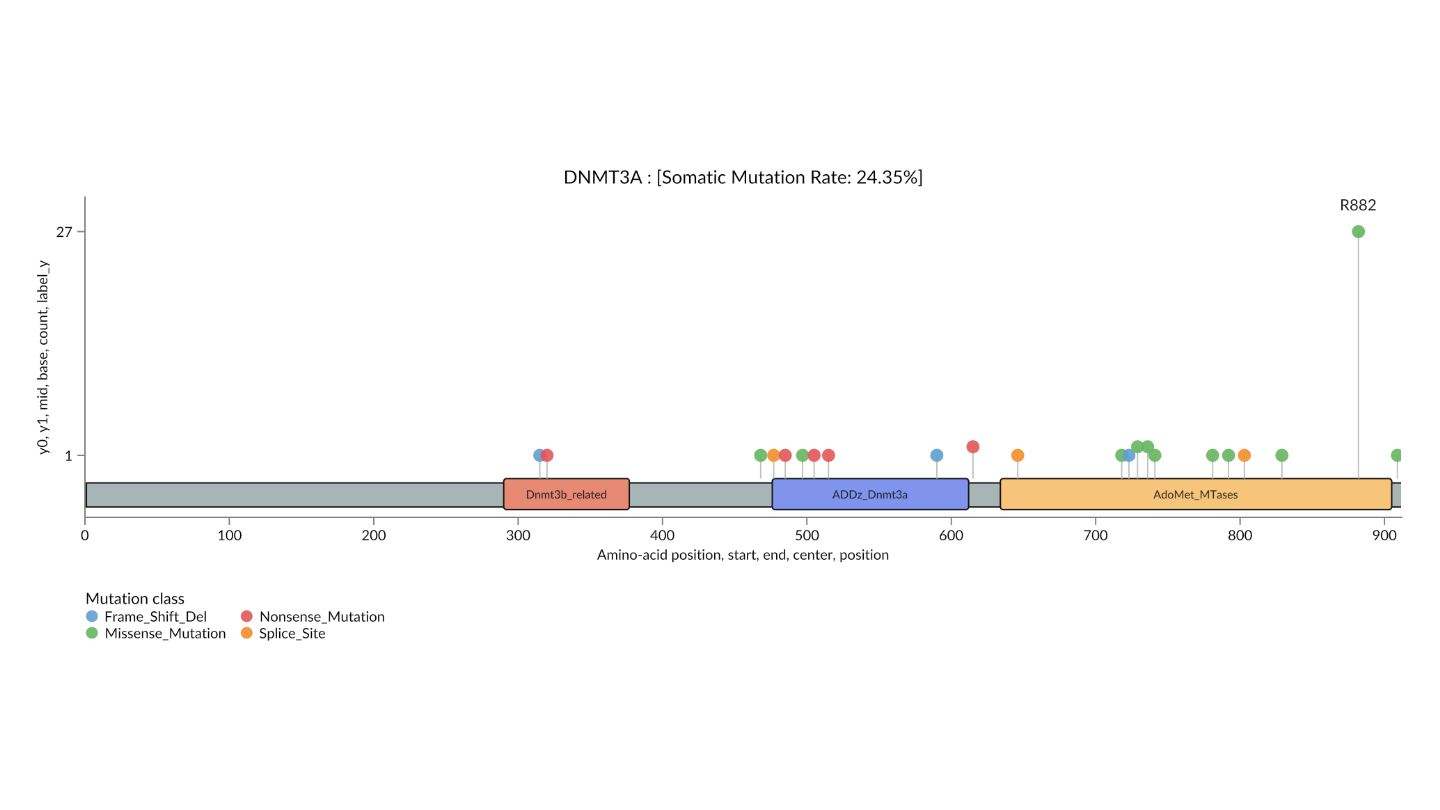
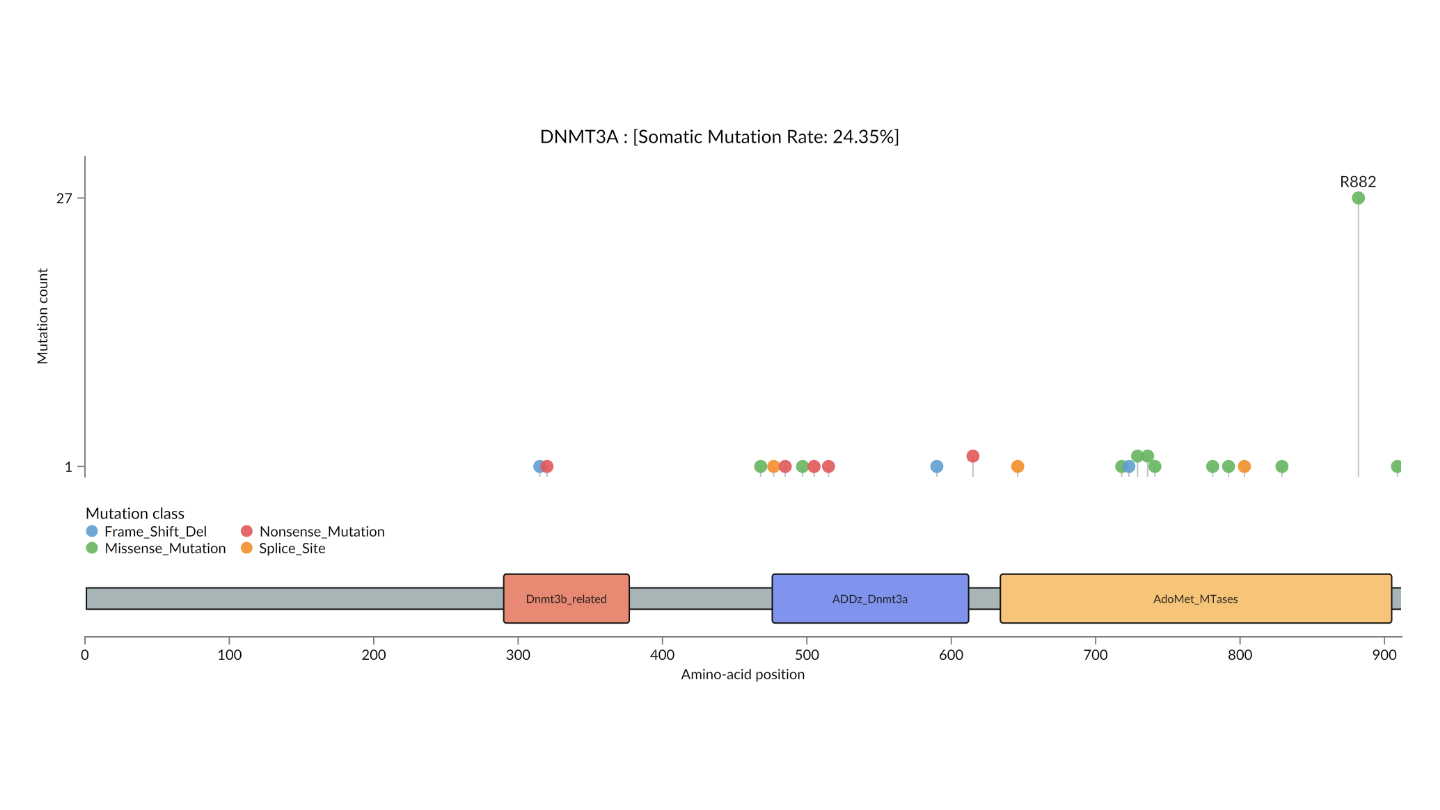
refactor(gallery): simplify DNMT3A needle plot

diff --git a/docs/examples/needle_plot.py b/docs/examples/needle_plot.py
@@ -1,15 +1,14 @@
 """Lollipop plot.
 
-Mutation counts aggregated by amino-acid position and drawn above a protein
-domain map. Color encodes the dominant mutation class at each site, making
-hotspots easy to spot.
+Mutation counts aggregated by amino-acid position are aligned above a protein
+domain track. Color encodes the dominant mutation class at each site.
 """
 
 from __future__ import annotations
 
 import genome_spy as gs
 from genome_spy.datasets._mutation import dnmt3a_lollipop_data
-from genome_spy.schema import Legend, Scale
+from genome_spy.schema import Axis, Legend, Scale
 
 META = {
     "category": "Mutation position plots",
@@ -24,133 +23,121 @@ CLASS_ORDER = [
     "Missense_Mutation",
     "Splice_Site",
 ]
-
 CLASS_COLORS = (
     Scale().domain(CLASS_ORDER).range(["#5f9ed1", "#e15759", "#66b55f", "#f28e2b"])
 )
-
-
-data = dnmt3a_lollipop_data()
-features = data["features"].copy()
-domains = data["domains"].copy()
-backbone = data["backbone"].copy()
-
-domains["y0"] = -5.3
-domains["y1"] = -1.7
-domains["mid"] = (domains["y0"] + domains["y1"]) / 2
-domains["center"] = (domains["start"] + domains["end"]) / 2
-backbone["y0"] = -5.0
-backbone["y1"] = -2.2
-backbone["mid"] = (backbone["y0"] + backbone["y1"]) / 2
-features["base"] = float(domains["y1"].iloc[0])
-features["label_y"] = features["count"] + 1.2
-features["label_text"] = features["position"].map(
-    lambda pos: f"R{pos}" if pos == 882 else ""
-)
-protein_length = data["protein_length"]
-max_count = int(features["count"].max())
-x_domain = [0, protein_length]
-y_domain = [-6.2, max_count + 4]
-
-mutation_legend = (
-    Legend()
-    .title("Mutation class")
-    .orient("bottom")
-    .direction("horizontal")
-    .columns(2)
-    .symbolSize(72)
+DOMAIN_COLORS = (
+    Scale()
+    .domain(["Dnmt3b_related", "ADDz_Dnmt3a", "AdoMet_MTases"])
+    .range(["#e78973", "#8094ee", "#f7c57a"])
 )
 
-# --- Visualization -------------------------------------------------------------
 
-# The protein backbone and annotated domains form the baseline geometry for the
-# lollipop marks.
-backbone_band = (
-    gs.Chart(backbone)
-    .mark_rect(color="#a8b5b6", stroke="#111111", strokeWidth=1)
-    .encode(
-        x=gs.X("start:Q")
-        .scale(domain=x_domain, zoom=True)
-        .title("Amino-acid position"),
-        x2=gs.X2("end"),
-        y=gs.Y("y0:Q")
-        .scale(reverse=False, domain=y_domain)
-        .axis(values=[1, max_count], grid=False)
-        .title(None),
-        y2=gs.Y2("y1"),
+def build_chart() -> gs.Chart:
+    """Build the DNMT3A mutation and protein-domain visualization."""
+    data = dnmt3a_lollipop_data()
+    features = data["features"]
+    domains = data["domains"]
+    max_count = int(features["count"].max())
+    x_domain = [0, data["protein_length"]]
+
+    mutation_legend = (
+        Legend()
+        .title("Mutation class")
+        .orient("bottom")
+        .direction("horizontal")
+        .columns(2)
+        .symbolSize(72)
     )
-)
 
-domain_layers = []
-for domain in domains.to_dict(orient="records"):
-    domain_layers.append(
-        gs.Chart([domain])
+    # Stems and heads inherit one prepared mutation table. Their y encodings
+    # differ, while the parent owns their common amino-acid position encoding.
+    stems = (
+        gs.Chart()
+        .mark_rule(color="#c0c0c0", size=1)
+        .encode(
+            y=gs.Y(gs.datum(0), type="quantitative")
+            .scale(reverse=False, domain=[0, max_count + 4])
+            .axis(title="Mutation count", values=[1, max_count], grid=False),
+            y2=gs.Y2("count"),
+        )
+    )
+    heads = (
+        gs.Chart()
+        .mark_point(size=88, filled=True, opacity=0.9)
+        .encode(
+            y=gs.Y("count:Q").scale(reverse=False, domain=[0, max_count + 4]),
+            color=gs.Color("class:N").scale(CLASS_COLORS).legend(mutation_legend),
+        )
+    )
+    # The canonical R882 hotspot is labeled without adding a display-only
+    # column to the prepared mutation table.
+    hotspot_label = (
+        gs.Chart()
+        .transform_filter(gs.datum.is_hotspot)
+        .mark_text(text="R882", dy=-12, size=11, color="#111111")
+        .encode(y=gs.Y("count:Q").scale(reverse=False, domain=[0, max_count + 4]))
+    )
+    mutation_track = (
+        gs.layer(stems, heads, hotspot_label)
+        .properties(data=features, height=230)
+        .encode(x=gs.X("position:Q"))
+    )
+
+    # Fixed mark-space y coordinates give the protein its own compact track;
+    # no artificial negative count values are needed.
+    backbone = (
+        gs.Chart(data["backbone"])
+        .mark_rect(y=0.36, y2=0.64, color="#a8b5b6", stroke="#111111", strokeWidth=1)
+        .encode(x=gs.X("start:Q"), x2=gs.X2("end"))
+    )
+    domain_blocks = (
+        gs.Chart(domains)
         .mark_rect(
-            color=domain["color"], cornerRadius=2, stroke="#111111", strokeWidth=1
+            y=0.18,
+            y2=0.82,
+            cornerRadius=2,
+            stroke="#111111",
+            strokeWidth=1,
         )
         .encode(
-            x=gs.X("start:Q").scale(domain=x_domain, zoom=True),
+            x=gs.X("start:Q"),
             x2=gs.X2("end"),
-            y=gs.Y("y0:Q").scale(reverse=False, domain=y_domain),
-            y2=gs.Y2("y1"),
+            color=gs.Color("name:N").scale(DOMAIN_COLORS).legend(None),
         )
     )
-
-domain_blocks = domain_layers[0]
-for layer in domain_layers[1:]:
-    domain_blocks = domain_blocks + layer
-
-domain_labels = (
-    gs.Chart(domains)
-    .mark_text(size=8, color="#111111")
-    .encode(
-        x=gs.X("center:Q").scale(domain=x_domain, zoom=True),
-        y=gs.Y("mid:Q").scale(reverse=False, domain=y_domain),
-        text=gs.Text("name:N"),
+    # GenomeSpy derives label centers while rendering, keeping presentation
+    # geometry in the declarative dataflow instead of pandas code.
+    domain_labels = (
+        gs.Chart(domains)
+        .transform_formula(expr=(gs.datum.start + gs.datum.end) / 2, as_="center")
+        .mark_text(y=0.5, size=8, color="#111111")
+        .encode(x=gs.X("center:Q"), text=gs.Text("name:N"))
     )
-)
-
-# Stems carry counts from the protein backbone to each hotspot; points encode
-# the dominant mutation class at that amino-acid position.
-stems = (
-    gs.Chart(features)
-    .mark_rule(color="#c0c0c0", size=1)
-    .encode(
-        x=gs.X("position:Q").scale(domain=x_domain, zoom=True),
-        y=gs.Y("base:Q").scale(reverse=False, domain=y_domain),
-        y2=gs.Y2("count"),
+    protein_track = gs.layer(backbone, domain_blocks, domain_labels).properties(
+        height=55
     )
-)
 
-heads = (
-    gs.Chart(features)
-    .mark_point(size=88, filled=True, opacity=0.9)
-    .encode(
-        x=gs.X("position:Q").scale(domain=x_domain, zoom=True),
-        y=gs.Y("count:Q").scale(reverse=False, domain=y_domain),
-        color=gs.Color("class:N").scale(CLASS_COLORS).legend(mutation_legend),
+    # The parent scale aligns true protein coordinates across both tracks.
+    return (
+        (mutation_track & protein_track)
+        .properties(
+            title=(
+                f"{data['gene']} : "
+                f"[Somatic Mutation Rate: {data['mutation_rate']:.2f}%]"
+            ),
+            description=(
+                "A DNMT3A lollipop plot derived from the maftools TCGA LAML "
+                "example, with per-position mutation counts, protein domains, "
+                "and the labeled R882 hotspot."
+            ),
+            scales=gs.scales(x=gs.Scale(domain=x_domain, zoom=True)),
+            axes=gs.axes(x=Axis(title="Amino-acid position")),
+            spacing=4,
+        )
+        .resolve_scale(x="shared", y="independent")
+        .resolve_axis(x="shared", y="independent")
     )
-)
 
-# The canonical R882 hotspot gets an explicit text label, echoing maftools.
-hotspot_labels = (
-    gs.Chart(features[features["is_hotspot"]].copy())
-    .mark_text(dy=-12, size=11, color="#111111")
-    .encode(
-        x=gs.X("position:Q").scale(domain=x_domain, zoom=True),
-        y=gs.Y("label_y:Q").scale(reverse=False, domain=y_domain),
-        text=gs.Text("label_text:N"),
-    )
-)
 
-# Compose the protein model and mutation marks into a single lollipop view.
-chart = (
-    backbone_band + domain_blocks + domain_labels + stems + heads + hotspot_labels
-).properties(
-    title=(f"{data['gene']} : [Somatic Mutation Rate: {data['mutation_rate']:.2f}%]"),
-    description=(
-        "A DNMT3A lollipop plot derived from the maftools TCGA LAML example, "
-        "with per-position mutation counts, protein domains, and the labeled "
-        "R882 hotspot."
-    ),
-)
+chart = build_chart()

diff --git a/tests/test_docs_gallery.py b/tests/test_docs_gallery.py
@@ -85,6 +85,28 @@ def test_pik3ca_lollipop_uses_reactive_collision_displacement() -> None:
     assert mutation_view["vconcat"][2]["layer"][0]["mark"]["x2Offset"] == 0
 
 
+def test_dnmt3a_needle_plot_uses_separate_mutation_and_protein_tracks() -> None:
+    gallery = _load_gallery()
+    spec = gallery.collect_example(EXAMPLES_DIR / "needle_plot.py").spec
+
+    assert len(spec["vconcat"]) == 2
+    assert spec["resolve"] == {
+        "scale": {"x": "shared", "y": "independent"},
+        "axis": {"x": "shared", "y": "independent"},
+    }
+    mutation_track, protein_track = spec["vconcat"]
+    assert set(mutation_track["data"]["values"][0]).isdisjoint(
+        {"base", "label_y", "label_text"}
+    )
+    assert protein_track["layer"][2]["transform"] == [
+        {
+            "type": "formula",
+            "expr": "((datum.start + datum.end) / 2)",
+            "as": "center",
+        }
+    ]
+
+
 def test_hcc_structural_variant_channels_use_typed_conditions() -> None:
     gallery = _load_gallery()
     example = gallery.collect_example(EXAMPLES_DIR / "hcc1954_sv_cnv.py")
